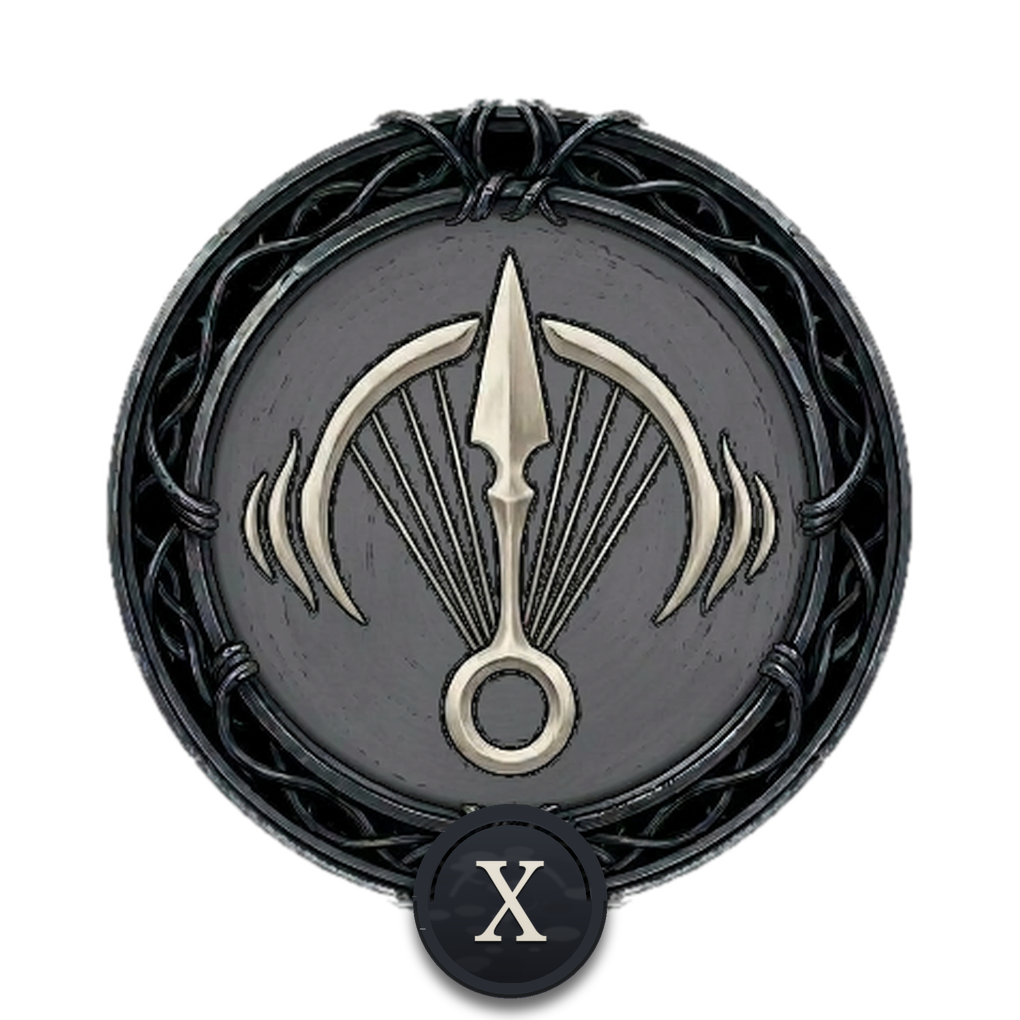
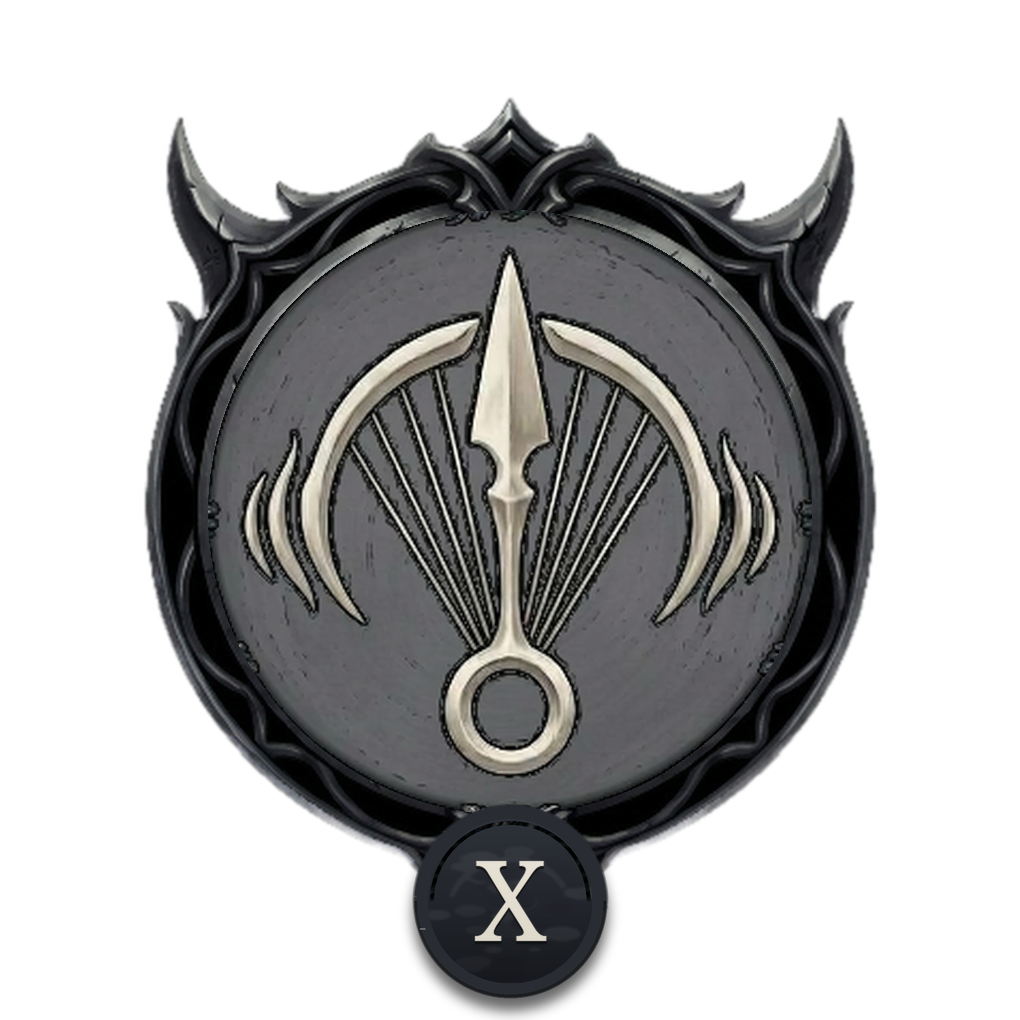
silksong pad: tool and Needolin swap seats and frames, eye key hides tool + Clawline only
Tool takes Needolin's seat (0.877, 0.410, r 0.040) back in its round
pre-#92 art and joins the eye key's skill group; Needolin takes the
top-row seat (0.783, 0.080, r 0.023) in the double-horn frame art
(frame from the old tool art, Needolin disc composited in) and is
always shown. The badge set follows its keys (badges are bound to
the art name, not the seat): tool keeps its R medallion on the round
art, Needolin keeps its X medallion on the double-horn art. Every
other key, position and behaviour is unchanged.

Changed region(s): [[0.0912, 0.0912, 0.9118, 0.9118]]

diff --git a/dm/ios/Sources/DmGamepad.m b/dm/ios/Sources/DmGamepad.m
@@ -132,7 +132,7 @@ int dm_opmode(void);   // hle_oe.c: 0 = handheld
 // Drawn controls are replaced by image controls in the layout of the fan Android port of Silksong: a fixed stick disc
 // bottom-left (its medallion knob follows the touch), the action keys bottom-right in two rows, quick map / inventory / pause
 // small at the top-right. Centres are fractions of the whole screen, radii a fraction of its width. Keys follow the game's
-// Switch defaults. Two skill keys (grp SK_SKILL: Needolin, Clawline) do nothing until the skill is earned and
+// Switch defaults. Two skill keys (grp SK_SKILL: tool, Clawline) do nothing until the skill is earned and
 // the pad cannot know the game's progress, so the eye key (grp SK_TOGGLE, not a game key) shows or hides them for
 // the session; they start hidden at each launch, the eye in its pressed state (the default the player asked
 // for, set explicitly in init).
@@ -143,8 +143,8 @@ static const struct { const char *art; int bit; int grp; CGFloat x, y, r; } k_sk
     {"attack",   B_Y,     SK_ALWAYS, 0.684, 0.822, 0.040},   // needle attack
     {"jump",     B_B,     SK_ALWAYS, 0.781, 0.822, 0.040},
     {"dash",     B_ZR,    SK_ALWAYS, 0.876, 0.822, 0.040},   // Swift Step: tap dashes, hold sprints
-    {"tool",     B_R,     SK_ALWAYS, 0.783, 0.080, 0.023},   // the equipped tool: the top row, between map and bag, always shown (the frame is the top row's double-horn frame)
-    {"needolin", B_X,     SK_SKILL,  0.877, 0.410, 0.040},   // Needolin (swapped with Clawline)
+    {"tool",     B_R,     SK_SKILL,  0.877, 0.410, 0.040},   // the equipped tool: the cluster's top right (Needolin's old seat), in its original round frame; an eye-key skill key
+    {"needolin", B_X,     SK_ALWAYS, 0.783, 0.080, 0.023},   // Needolin: the top row, between map and bag, in the double-horn frame; always shown (not an eye-key skill key)
     {"bind",     B_A,     SK_ALWAYS, 0.877, 0.616, 0.040},   // Bind (heal)
     {"clawline", B_ZL,    SK_SKILL,  0.781, 0.616, 0.040},   // Clawline (swapped with Needolin)
     {"eye",      0,       SK_TOGGLE, 0.672, 0.080, 0.023},   // show / hide the skill keys
